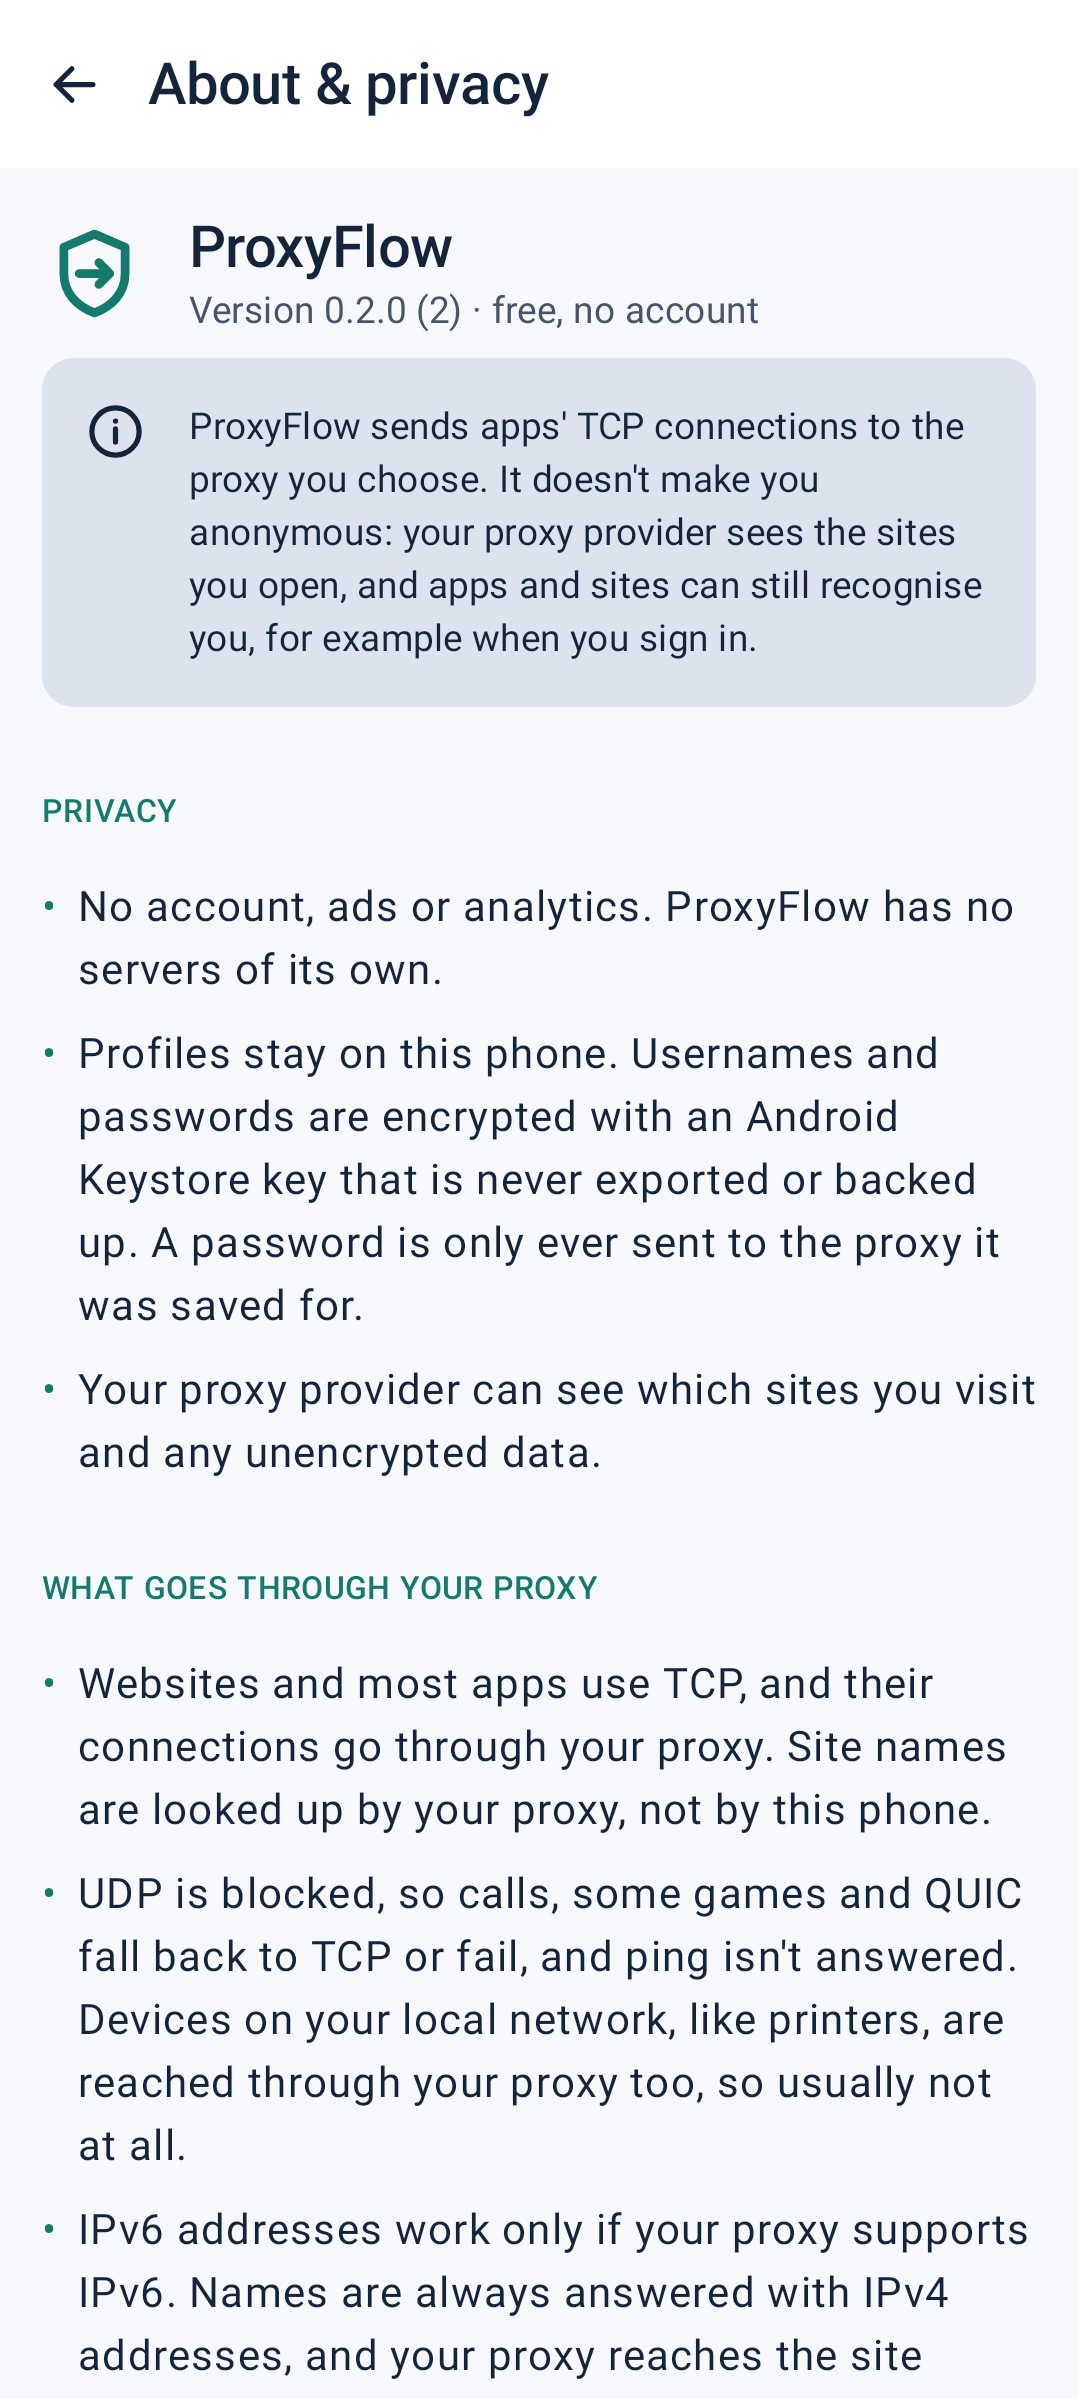
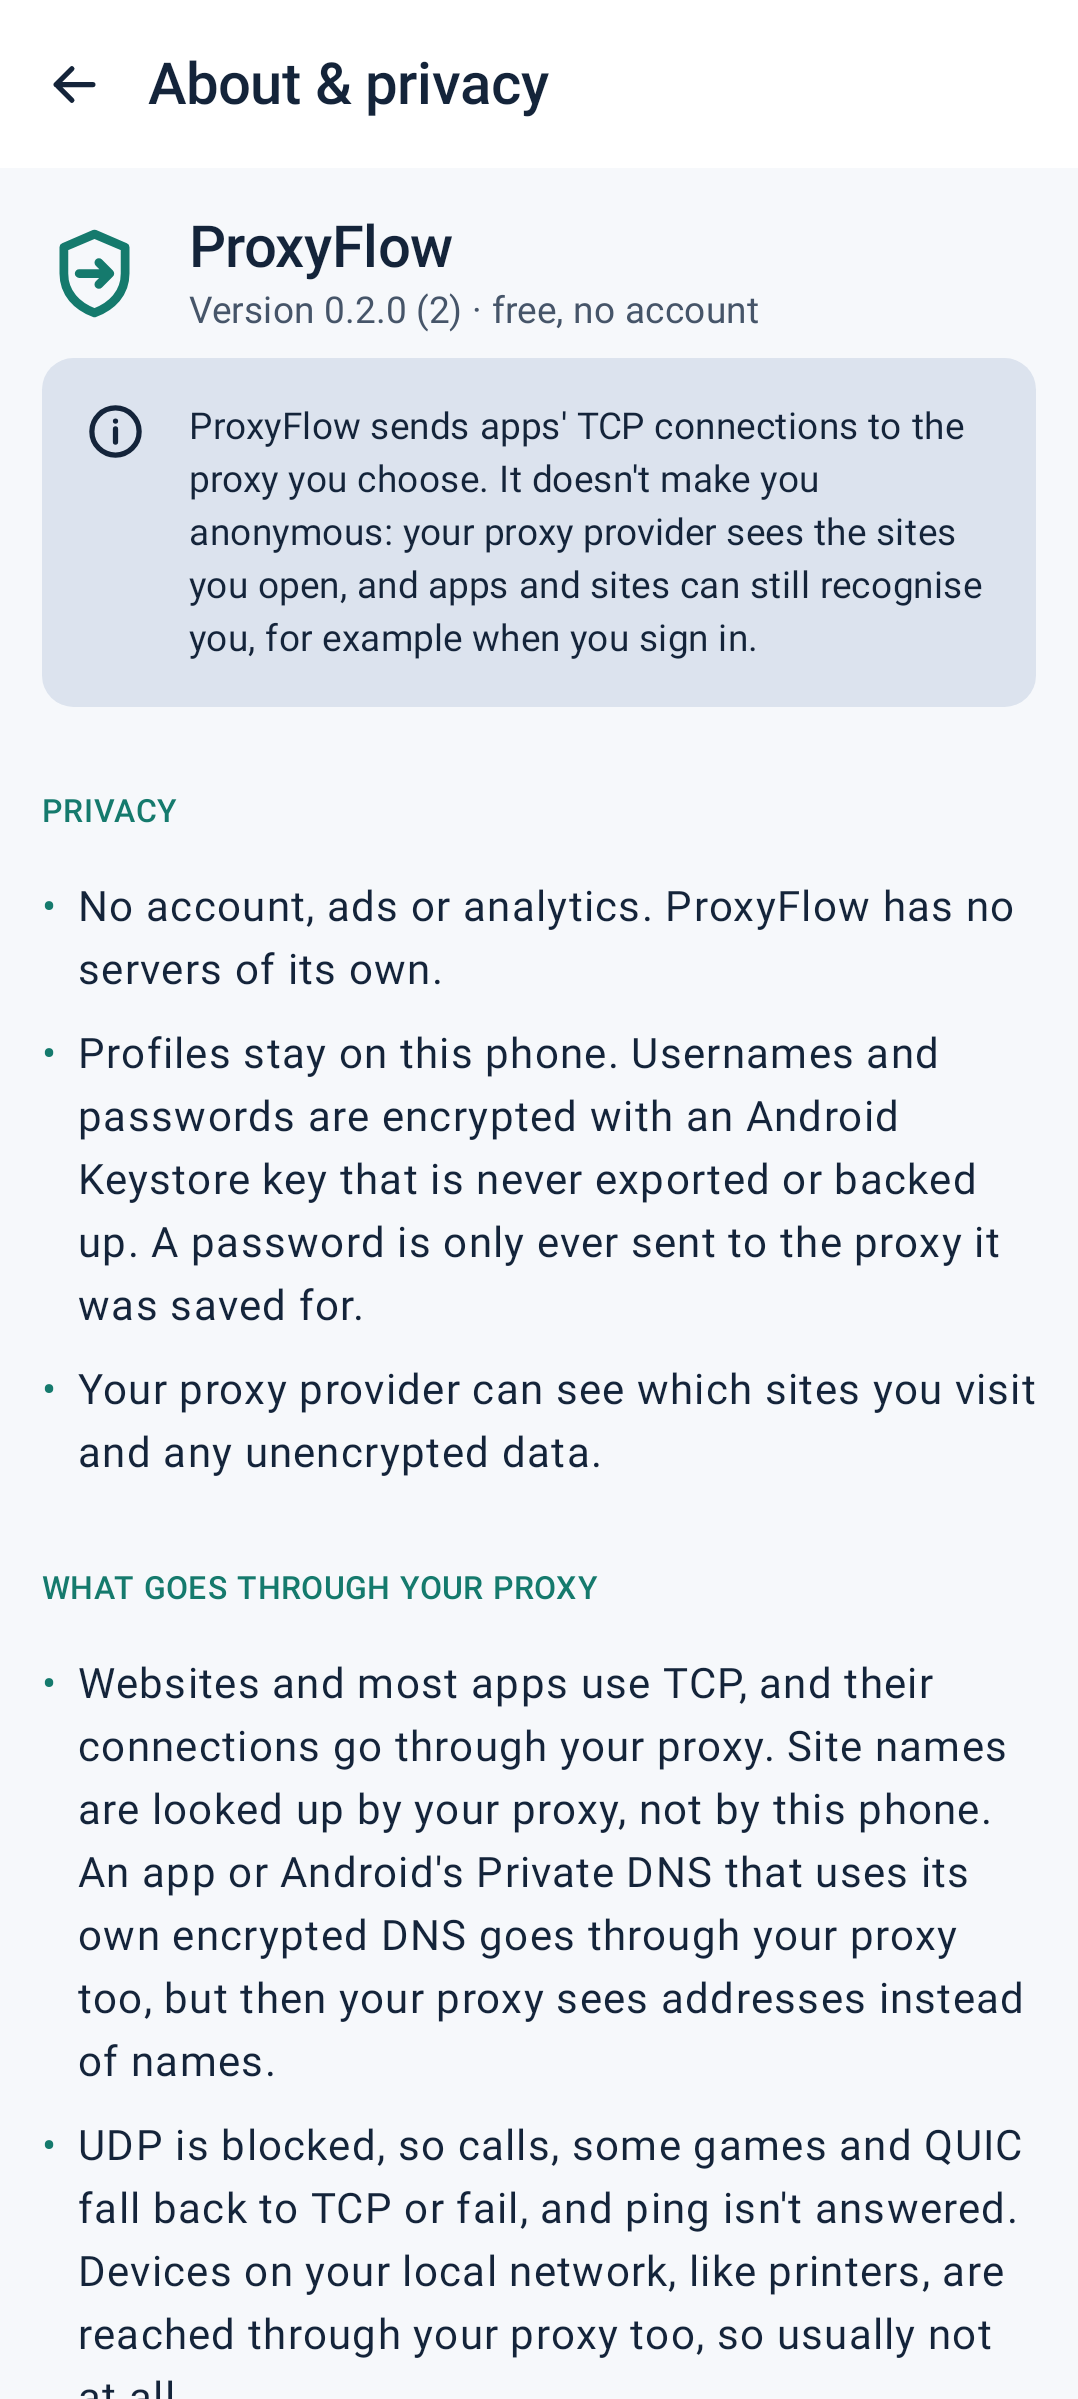
M6: evidence survives cut-off DNS answers; uplink retries wait for the proxy
- m6_evidence.py crashed on API 34-36 in run 41269245389: the phone's own
  captures keep 160 bytes per packet, and a DNS answer cut off mid-address
  reached ipaddress. Cut-off answers are skipped (test added), a packet
  that cannot be read is skipped like a short one, and a crash of the
  script is reported as an error annotation instead of only in the log.
- Harness: an attempt that failed with "no route to the proxy" (the
  emulator's uplink, seen on API 34 in that run during the ten connect
  cycles, twice in a row) is retried only once the proxy answers this
  process directly, at most twice; still logged and counted by the
  evidence.
- About screenshots recorded in CI for 242bf88, reviewed and taken.

Claude-Session: https://claude.ai/code/session_01BBXXsUMxCVrJYrWf3v1XwS

Changed region(s): [[0.0612, 0.7712, 0.949, 1.0]]

diff --git a/app/src/androidTest/kotlin/app/proxyflow/e2e/E2e.kt b/app/src/androidTest/kotlin/app/proxyflow/e2e/E2e.kt
@@ -24,6 +24,8 @@ import app.proxyflow.core.model.ProxyProfileInput
 import app.proxyflow.core.model.ProxyProtocol
 import app.proxyflow.core.vpn.ProxyFlowVpnService
 import java.io.File
+import java.net.InetSocketAddress
+import java.net.Socket
 import java.util.UUID
 import java.util.concurrent.ConcurrentHashMap
 import java.util.concurrent.CopyOnWriteArrayList
@@ -301,22 +303,38 @@ class App {
 
     /**
      * Connects [profileId] and returns the Connected state. An attempt that the phone's own uplink
-     * failed ("no route to the proxy": the emulator's network was gone for a moment, as the API 35
-     * image's sometimes is) is tried once more and logged, and the evidence counts these; any other
-     * failure, or a second one, fails the test at once.
+     * failed ("no route to the proxy": the emulator's network did not reach the runner for a moment,
+     * as the API 34 and 35 images' sometimes do) is tried again once the proxy answers this process
+     * directly (outside the VPN), at most [UPLINK_RETRIES] times, and logged; the evidence counts
+     * these. Any other failure fails the test at once.
      */
     fun connect(profileId: String): ConnectionState {
-        val ended = connectAndAwait(profileId, "Connected or a failed attempt") { it.profileId == profileId && it.connectedOrFailed() }
-        if (ended.status == ConnectionStatus.Connected) return ended
-        if (ended.error != UPLINK_DROPPED) throw AssertionError("connecting failed; state is $ended")
-        // The failed attempt leaves nothing behind: a first attempt no interface, a switch only the one it holds.
-        if (ended.status == ConnectionStatus.Disconnected) {
-            eventually("the failed attempt left no interface", diagnose = { Diagnostics.report(this) }) { Descriptors.tun().isEmpty() }
+        var ended = connectAndAwait(profileId, "Connected or a failed attempt") { it.profileId == profileId && it.connectedOrFailed() }
+        var retries = 0
+        while (ended.status != ConnectionStatus.Connected) {
+            if (ended.error != UPLINK_DROPPED) throw AssertionError("connecting failed; state is $ended")
+            if (retries == UPLINK_RETRIES) throw AssertionError("connecting failed ${retries + 1} times; state is $ended")
+            // The failed attempt leaves nothing behind: a first attempt no interface, a switch only the one it holds.
+            if (ended.status == ConnectionStatus.Disconnected) {
+                eventually("the failed attempt left no interface", diagnose = { Diagnostics.report(this) }) { Descriptors.tun().isEmpty() }
+            }
+            retries++
+            val waited = ended.profile?.let { awaitProxy(it.host, it.port) }
+            Log.i(TAG, "uplink dropped: connecting again (retry $retries; the proxy answered this process again after $waited ms)")
+            ended = connectAndAwait(profileId, "Connected or a failed attempt") { it.profileId == profileId && it.connectedOrFailed() }
         }
-        Log.i(TAG, "uplink dropped: connecting again")
-        val again = connectAndAwait(profileId, "Connected or a failed attempt") { it.profileId == profileId && it.connectedOrFailed() }
-        if (again.status != ConnectionStatus.Connected) throw AssertionError("connecting failed twice; state is $again")
-        return again
+        return ended
+    }
+
+    /** Waits until [host]:[port] accepts a connection from this process, which ProxyFlow's VPN leaves out; the time taken. */
+    private fun awaitProxy(host: String, port: Int): Long {
+        val start = System.currentTimeMillis()
+        while (System.currentTimeMillis() - start < UPLINK_WAIT_MS) {
+            val reached = runCatching { Socket().use { it.connect(InetSocketAddress(host, port), 1_000) } }.isSuccess
+            if (reached) return System.currentTimeMillis() - start
+            Thread.sleep(500)
+        }
+        return -1
     }
 
     private fun ConnectionState.connectedOrFailed() = status == ConnectionStatus.Connected ||
@@ -368,6 +386,8 @@ private const val TAG = "ProxyFlowE2E"
 
 /** What the engine reports when the phone has no route to the proxy at all: its own uplink is down. */
 private val UPLINK_DROPPED = ConnectionError("PROXY_UNREACHABLE", "no route to the proxy")
+private const val UPLINK_RETRIES = 2
+private const val UPLINK_WAIT_MS = 15_000L
 
 /** How long a test's setup waits for an earlier test's VPN service and interface to go. */
 const val SETTLE_BEFORE_TEST_MS = 30_000L

diff --git a/scripts/m6_evidence.py b/scripts/m6_evidence.py
@@ -168,8 +168,12 @@ def dns_answer_addresses(message: bytes) -> tuple[str | None, list[str]]:
     found = []
     for _ in range(answers):
         at = skip_name(message, at)
+        if at + 10 > len(message):
+            break  # the phone's own captures keep 160 bytes of each packet: later answers may be cut off
         rtype, _, _, length = struct.unpack("!HHIH", message[at : at + 10])
         at += 10
+        if at + length > len(message):
+            break
         if (rtype == 1 and length == 4) or (rtype == 28 and length == 16):
             found.append(ip_of(message[at : at + length]))
         at += length
@@ -311,8 +315,8 @@ def read_capture(path: str) -> Capture:
             packet = network_payload(linktype, frame)
             if packet:
                 inspect(packet, capture, when)
-        except (IndexError, struct.error):
-            continue
+        except (IndexError, struct.error, ValueError):
+            continue  # a packet cut off by the capture's length limit, or not what its header says
     return capture
 
 
@@ -655,4 +659,11 @@ def main(argv: list[str]) -> int:
 
 
 if __name__ == "__main__":
-    sys.exit(main(sys.argv))
+    try:
+        sys.exit(main(sys.argv))
+    except Exception:  # an evidence check that cannot finish is a failed check, said where CI shows annotations
+        import traceback
+
+        api = next((sys.argv[i + 1] for i, a in enumerate(sys.argv[:-1]) if a == "--api"), "?")
+        print(f"::error title=M6 end-to-end evidence (API {api})::the evidence script failed: {escape(traceback.format_exc())}")
+        sys.exit(1)

diff --git a/scripts/tests/test_evidence.py b/scripts/tests/test_evidence.py
@@ -173,6 +173,12 @@ class CaptureTest(unittest.TestCase):
         c = capture_of([ipv4("10.0.2.3", PHONE4, 17, udp(53, 40009, dns_response("time.android.com", "216.239.35.0")))])
         self.assertEqual({"216.239.35.0"}, c.dns_answers["time.android.com"])
 
+    def test_answers_cut_off_by_the_capture_length_are_skipped(self):
+        response = dns_response("time.android.com", "216.239.35.0")
+        c = capture_of([ipv4("10.0.2.3", PHONE4, 17, udp(53, 40010, response[:-2]))])  # the address half cut off
+        self.assertEqual(set(), c.dns_answers["time.android.com"])
+        self.assertEqual(1, c.packets)
+
     def test_dns_queries_over_udp_and_tcp(self):
         query = dns_query("proxyflow.test")
         c = capture_of(
